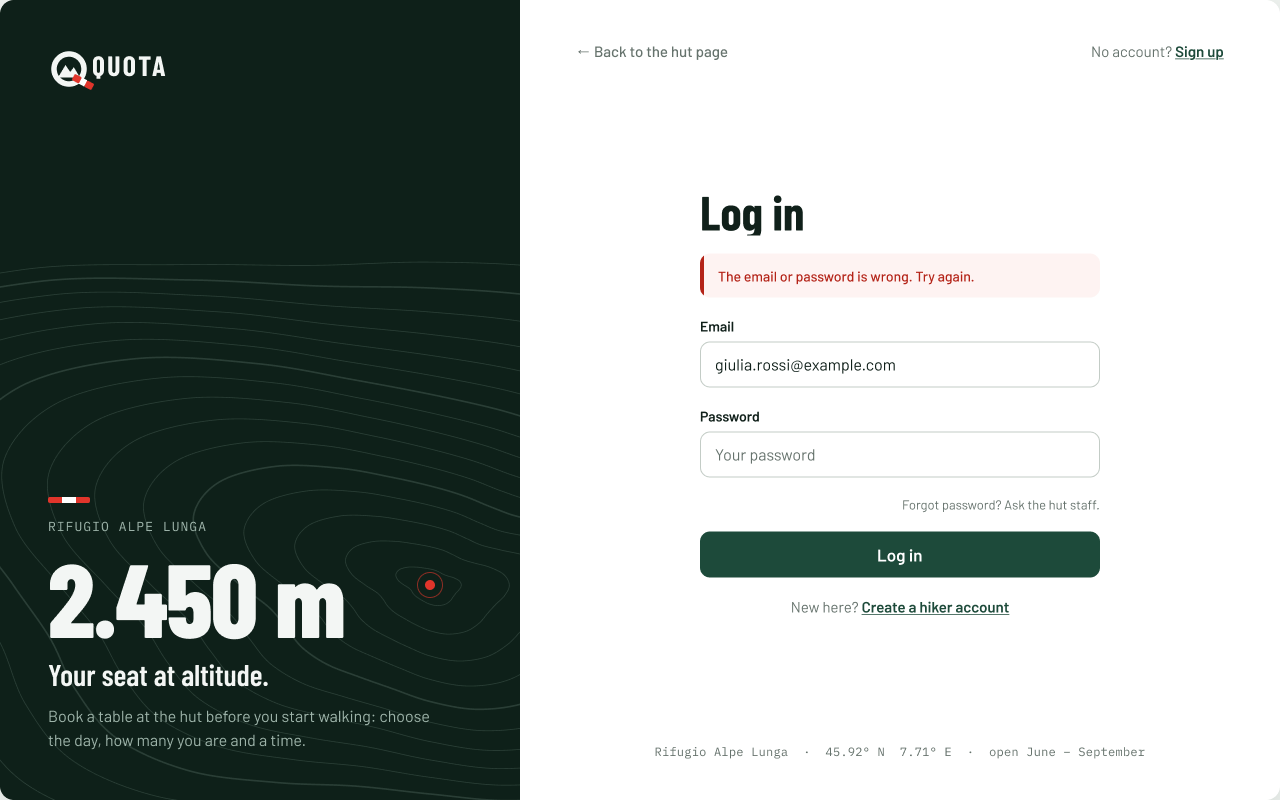
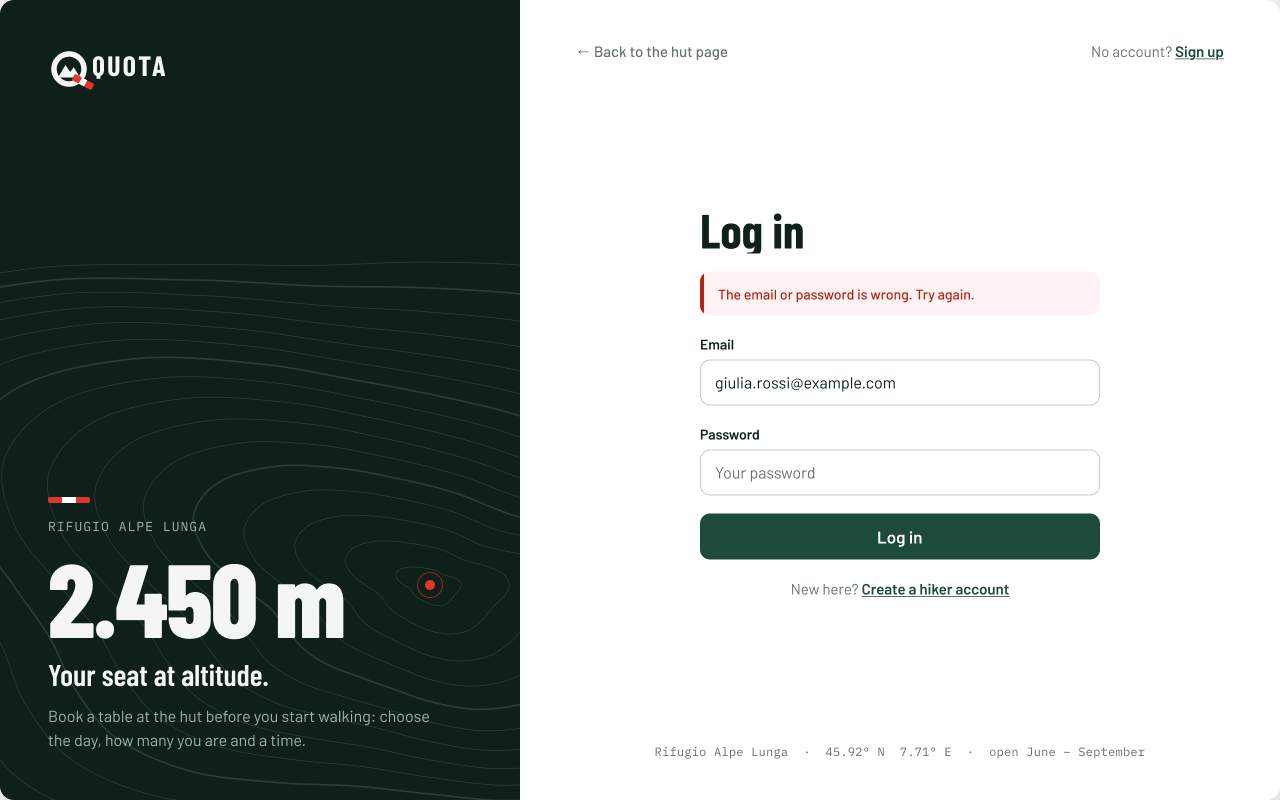
docs: remove the forgot password line from the login mockup (MH-45)
Review of #8: "Ask the hut staff" suggested the staff can see or set a
hiker's password. Passwords are stored only as hashes, and no story asks
for a password reset, so the line is removed and the README says why.

Changed region(s): [[0.5312, 0.4062, 0.875, 0.7812], [0.5625, 0.3438, 0.7812, 0.375], [0.5312, 0.25, 0.625, 0.3125]]

diff --git a/docs/mockups/login/phone.html b/docs/mockups/login/phone.html
@@ -69,7 +69,6 @@
   .msg { color: var(--error); font-size: 14px; margin-top: 6px; }
   .msg u { font-weight: 600; text-underline-offset: 2px; }
   .help { color: var(--stone); font-size: 14px; margin-top: 6px; }
-  .forgot { text-align: right; font-size: 14px; color: var(--stone); margin: -4px 0 18px; }
   .btn { height: 54px; width: 100%; border: 0; border-radius: 12px; font-family: var(--f-body); font-weight: 600; font-size: 17px; display: flex; align-items: center; justify-content: center; gap: 10px; }
   .btn.primary { background: var(--pine); color: var(--snow); }
   .btn.busy { background: #5D7C70; }
@@ -167,7 +166,7 @@ const foot = `<div class="foot"><span class="back">← Back to the hut page</spa
 const login = ({ alert, email = {}, password = {}, busy }) => `${status()}${urlbar("/login")}${hero("No account? <b>Sign up</b>")}<div class="form">
   <h1 style="margin-bottom:20px">Log in</h1>${alert || ""}
   ${field({ label: "Email", ph: "name@example.com", ...email })}${field({ label: "Password", ph: "Your password", ...password })}
-  <div class="forgot">Forgot password? Ask the hut staff.</div>
+  <div style="height:8px"></div>
   <button class="btn primary ${busy ? "busy" : ""}">${busy ? '<i class="spinner"></i>Logging in…' : "Log in"}</button>
   <div class="alt-line">New here? <b>Create a hiker account</b></div>${foot}</div>`;
 

diff --git a/docs/mockups/login/README.md b/docs/mockups/login/README.md
@@ -61,7 +61,7 @@ The same website opened in a phone browser, not a separate app: the React pages 
 - **After login:** a hiker goes to *Book a table*; an employee or the manager goes to *Slots & tables*. If the user came from a protected page (screen 4), send them back there instead.
 - **The blue note on screen 4** ("Log in to book a table.") is shown only when a user who is not logged in opens a protected page and is sent to the login. It says why they landed on the login instead of the page they clicked; without it the jump looks like an error. Opening the login page directly shows no note.
 - **After sign-up:** the hiker is logged in straight away and goes to *Book a table*.
-- **No password reset in sprint 1:** the login page says "Forgot password? Ask the hut staff."
+- **No password reset:** no story asks for one, so the login page has no "Forgot password?" link. Passwords are stored only as hashes: nobody, the hut staff included, can read them. If the team wants a reset, it has to be asked to the product owner first.
 - **Log out** is in the navbar for every role and goes back to the public hut page.
 - **The navbar shows only the pages that role can use** (screen 7). A hiker who opens a staff page by URL sees the "Staff only" page.
 - **While the request is running** the button is disabled and reads "Logging in…" or "Creating account…".
